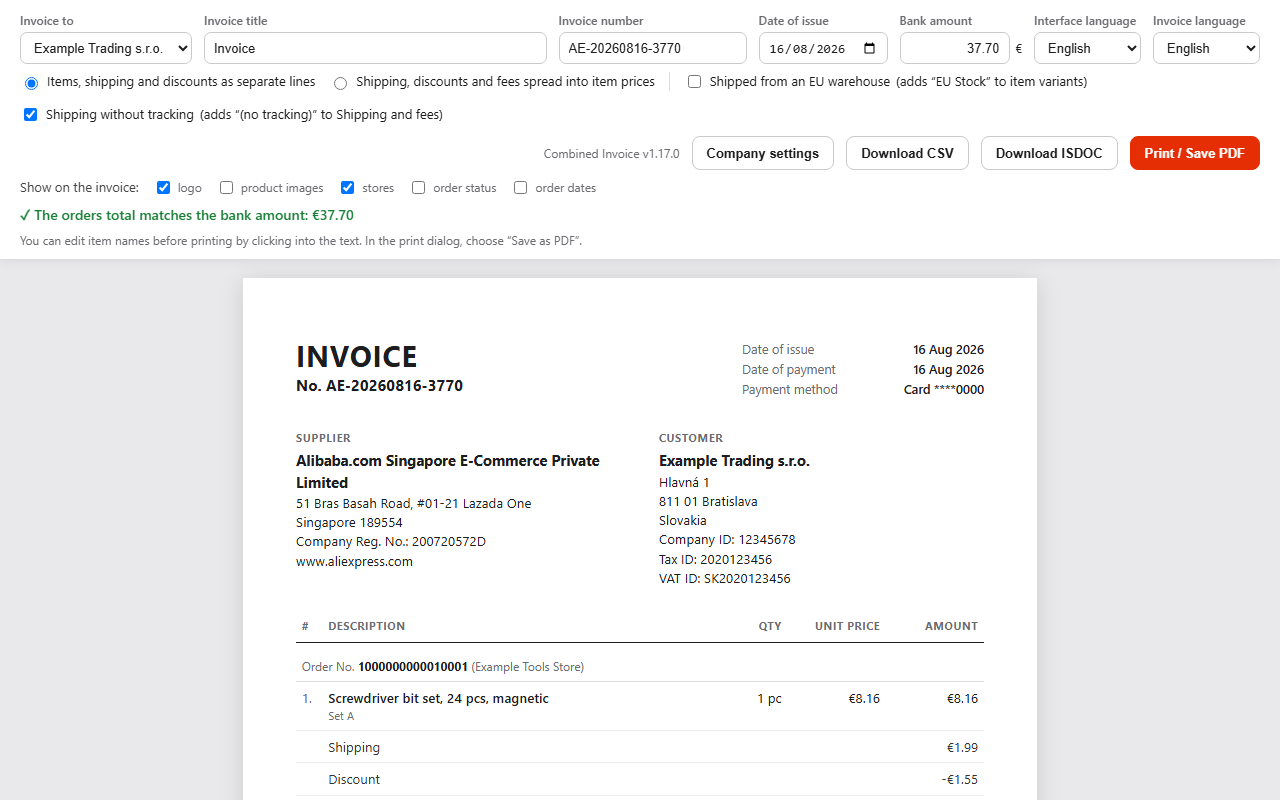
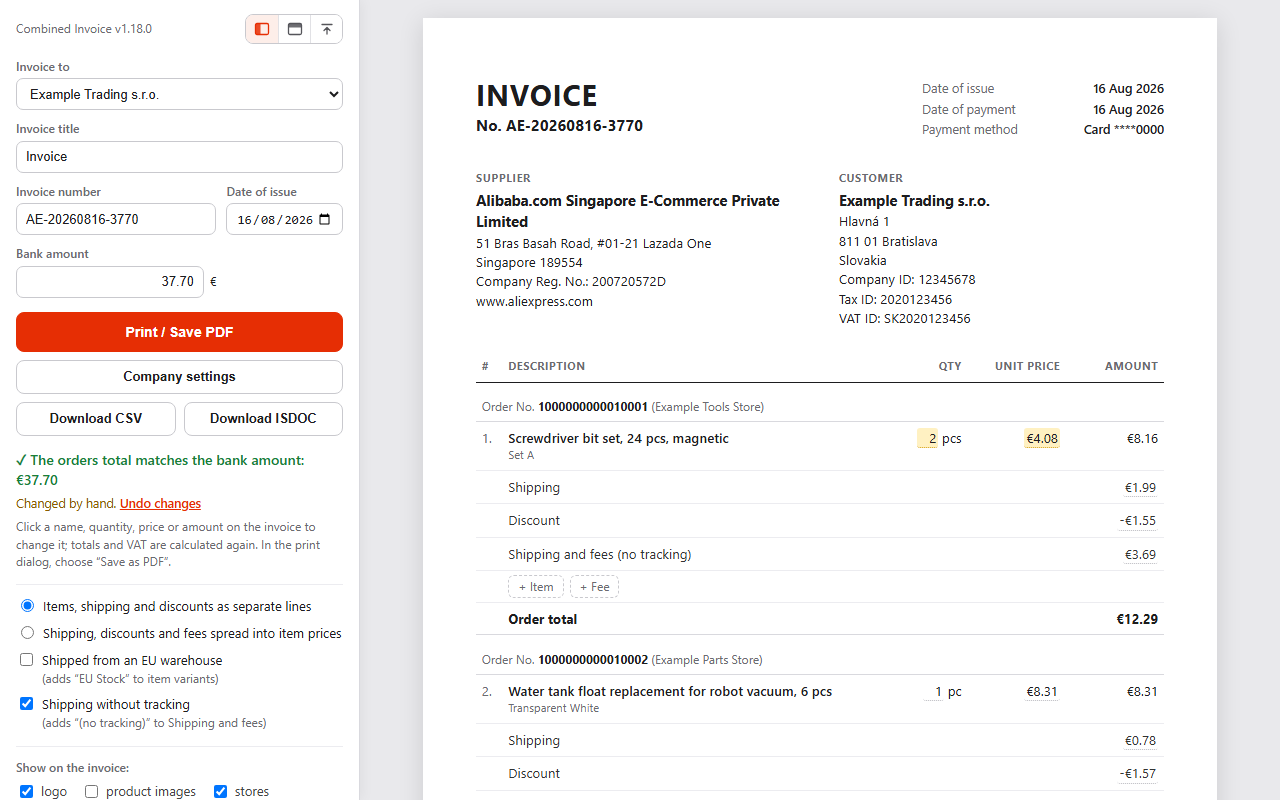
Store listing and screenshots for 1.18.0
- New bullet about changes right on the invoice in all 17 store descriptions.
- Screenshots show the side panel and an invoice with a changed quantity.

diff --git a/tools/make-store-images.js b/tools/make-store-images.js
@@ -144,9 +144,17 @@ const PROMO = `<!doctype html><html><head><meta charset="utf-8"><style>
   <div><h1>Combined Invoice</h1><h2>for AliExpress</h2><p>One invoice for one bank payment.<br>The total matches to the cent.</p></div>
 </body></html>`;
 
+// the invoice with a change typed on it: one lot of the first order as 2 pieces at half the price, so the total
+// still matches the bank amount
+const EDITED_DRAFT = Object.assign({}, require(path.join(ROOT, 'test/fixtures/receipts.js')).demoDraft, {
+  edited: { names: {}, numbers: {}, changes: { '1000000000010001': { items: { 0: { qty: 2, unitCents: 408 } } } } },
+});
+const withDraft = (html, draft) => html.replace('<script src="core.js"></script>',
+  `<script>window.ALIFA_DEMO = ${JSON.stringify(draft)};</script>\n  <script src="core.js"></script>`);
+
 const JOBS = [
   { name: 'screenshots/1-orders-en.png', file: '_shot-1.html', html: ordersPage(Object.assign({}, DEMO, { lang: 'en' })), size: '1280,800' },
-  { name: 'screenshots/2-invoice-en.png', file: '_shot-2.html', html: page('invoice.html', Object.assign({}, DEMO, { lang: 'en' })), size: '1280,800' },
+  { name: 'screenshots/2-invoice-en.png', file: '_shot-2.html', html: withDraft(page('invoice.html', Object.assign({}, DEMO, { lang: 'en' })), EDITED_DRAFT), size: '1280,800' },
   { name: 'screenshots/3-invoice-de-allocated.png', file: '_shot-3.html', html: page('invoice.html', Object.assign({}, DEMO, { lang: 'de', invoiceLang: 'de', mode: 'allocated' })), size: '1280,800' },
   { name: 'screenshots/4-settings-en.png', file: '_shot-4.html', html: page('options.html', Object.assign({}, DEMO, { lang: 'en' })), size: '1280,800' },
   { name: 'screenshots/5-batch-en.png', file: '_shot-5.html', html: ordersPage(Object.assign({}, DEMO, { lang: 'en' }), ORDERS.map((o) => Object.assign({}, o, { pick: false })), null, BATCH_DEMO), size: '1280,800' },
